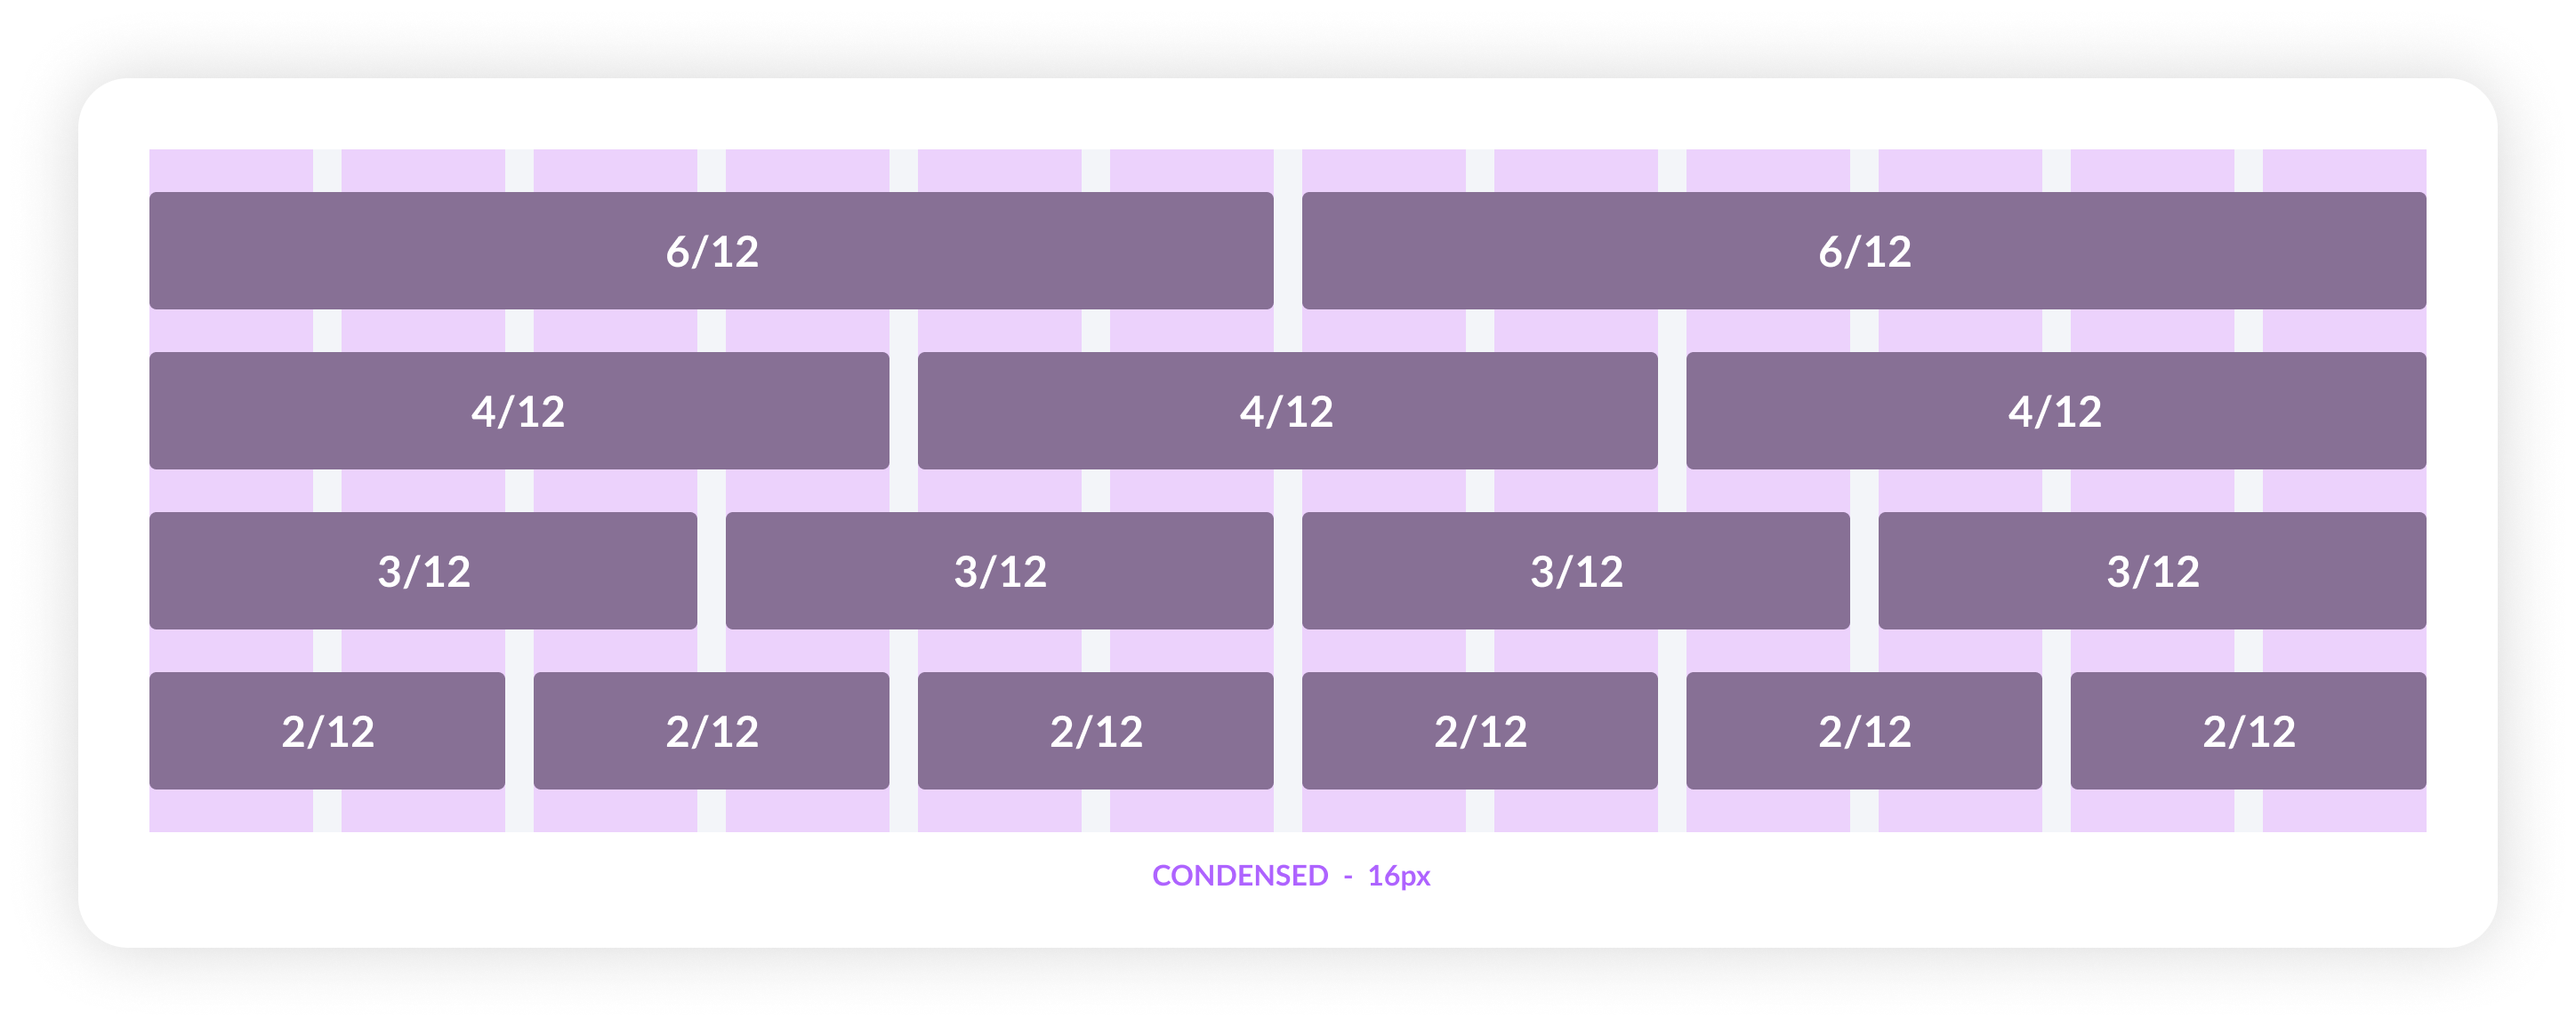
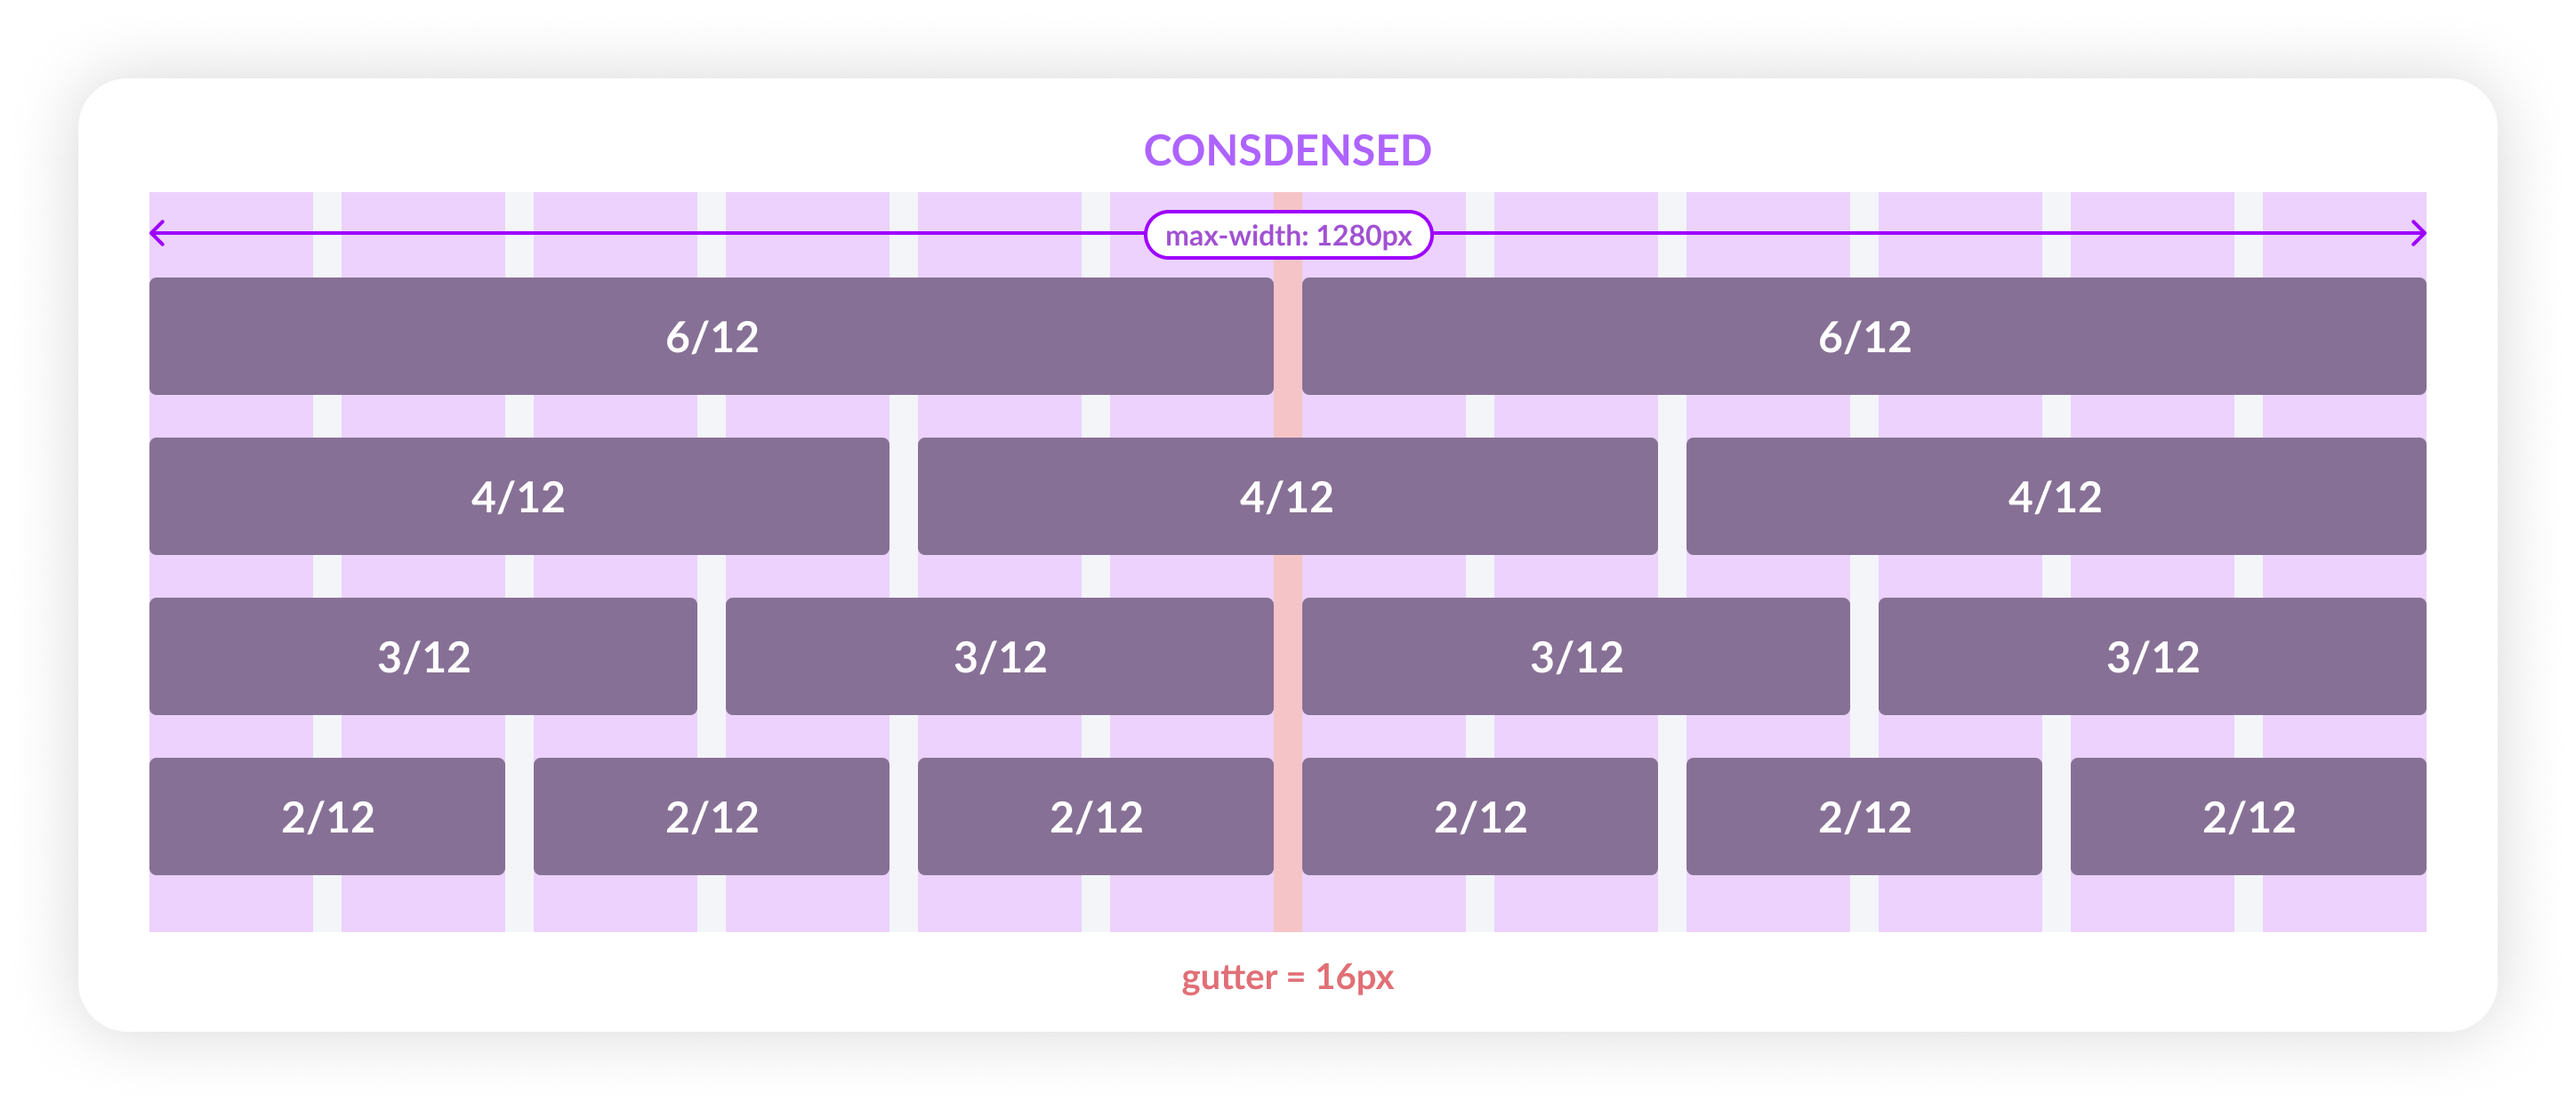
docs: fixed column grid images with width & gutter description and minor text simplifications

diff --git a/rfcs/2021-01-22-spatial-system-rfc.md b/rfcs/2021-01-22-spatial-system-rfc.md
@@ -42,7 +42,7 @@ There are so many inconsistencies which we see in the current UI, here are a few
 ![Inconsistent Spacing & Alignment](./images/spatial/uneven-spacing.png)
 
 ### **Expected Outcome**
-Due to these inconsistencies the users using our product can get a feeling of untrustworthy, cheap design, & inconsistency. When everything looks aligned it creates a visual rhythm which in turns look pleasing and something our users expect from a brand like us especially in the fintech space.
+Due to these inconsistencies the users using our product can get a feeling of untrustworthyness & inconsist design. When everything looks aligned it creates a visual rhythm which in turns look pleasing and something our users expect from a brand like us especially in the fintech space.
 
 To avoid this, we need to build a flexible **spatial system** that can drive minor everyday decisions and make our designs looks consistent, organised & pleasing to our users eyes.
 
@@ -69,7 +69,7 @@ There is no right or wrong answer here, but there are few reasons for choosing 8
 - It's simple for us to do the math. The `4` & `8` are simpler to calculate and they are flexible enough to setup a scale.
 
 ### **Base Unit**
-We'll start with the base unit, this will allow us to create a scale of all the sizes in your spatial system. For us this also means using multiples of `x8` to define dimensions, padding, and margin of elements.
+We'll start with the base unit, this will allow us to create a scale of all the sizes in your spatial system. For us this also means using multiples of `x8` to define dimensions, **padding**, and **margin** of elements. But for our use-case multiple of `x8` won't work, as multiples of 8 can go too high (prctically) to work at a system-level.
 
 ### **What system will work for Razorpay?**
 We should consider few cases that will make the system flexible for us. Few things to consider here are the **user needs**.
@@ -93,17 +93,20 @@ The grid system helps align page elements based on sequenced columns and rows. B
 ### **Column Grid**
 As the name suggests, this type of grid will help you organise content into evenly spaced vertical columns. The spacer which divide this grid is called as `gutter`. We'll use a **12 column grid** as it helps divide the area into *halfs*, *thirds*, *fourths*, *sixths*.
 
-Here we'll have 3 types of column grids, these will be used depending on the use case.
+Here we'll have 3 types of column grids, these will be used depending on the use case. All of them are following the same maximum width of `1280px`.
 1. **Default:** This has a gutter of `32px` & will be used on the internal dashboard.
 ![Default Column-Grid](./images/spatial/col-grid-default.png)
 
-2. **Condensed:** This has a gutter of `16px` & will be used on mobile layouts.
+2. **Condensed:** This has a gutter of `16px` & will be used on mobile layouts *(only for dashboards)*.
 ![Condensed Column-Grid](./images/spatial/col-grid-condensed.png)
 
-3. **Spacious:** This has a gutter of `48px` & will be used for landing/marketing pages.
+3. **Spacious:** This has a gutter of `48px` & will be used for landing/marketing pages *(on desktop)*.
 ![Condensed Column-Grid](./images/spatial/col-grid-spacious.png)
 
 These column grids can also be used internally based on the what component we are building. For example, let's say we are building inline form, then we'll use condensed col-grid for organising elements.
+
+### **Marketing Pages**
+For marketing pages, the UI is more spacious. Therefore, we can go ahead and use the **spacious system** (gutter of `48px`) and on mobiles the same system will be converterd to a default system (gutter of `24px`).
 
 ### **Spatial Scale**
 We'll follow a **8pt** linear scale for the elements with the **4pt** half-step for spacing smaller content (icons, etc.) and typography (line-heights).
